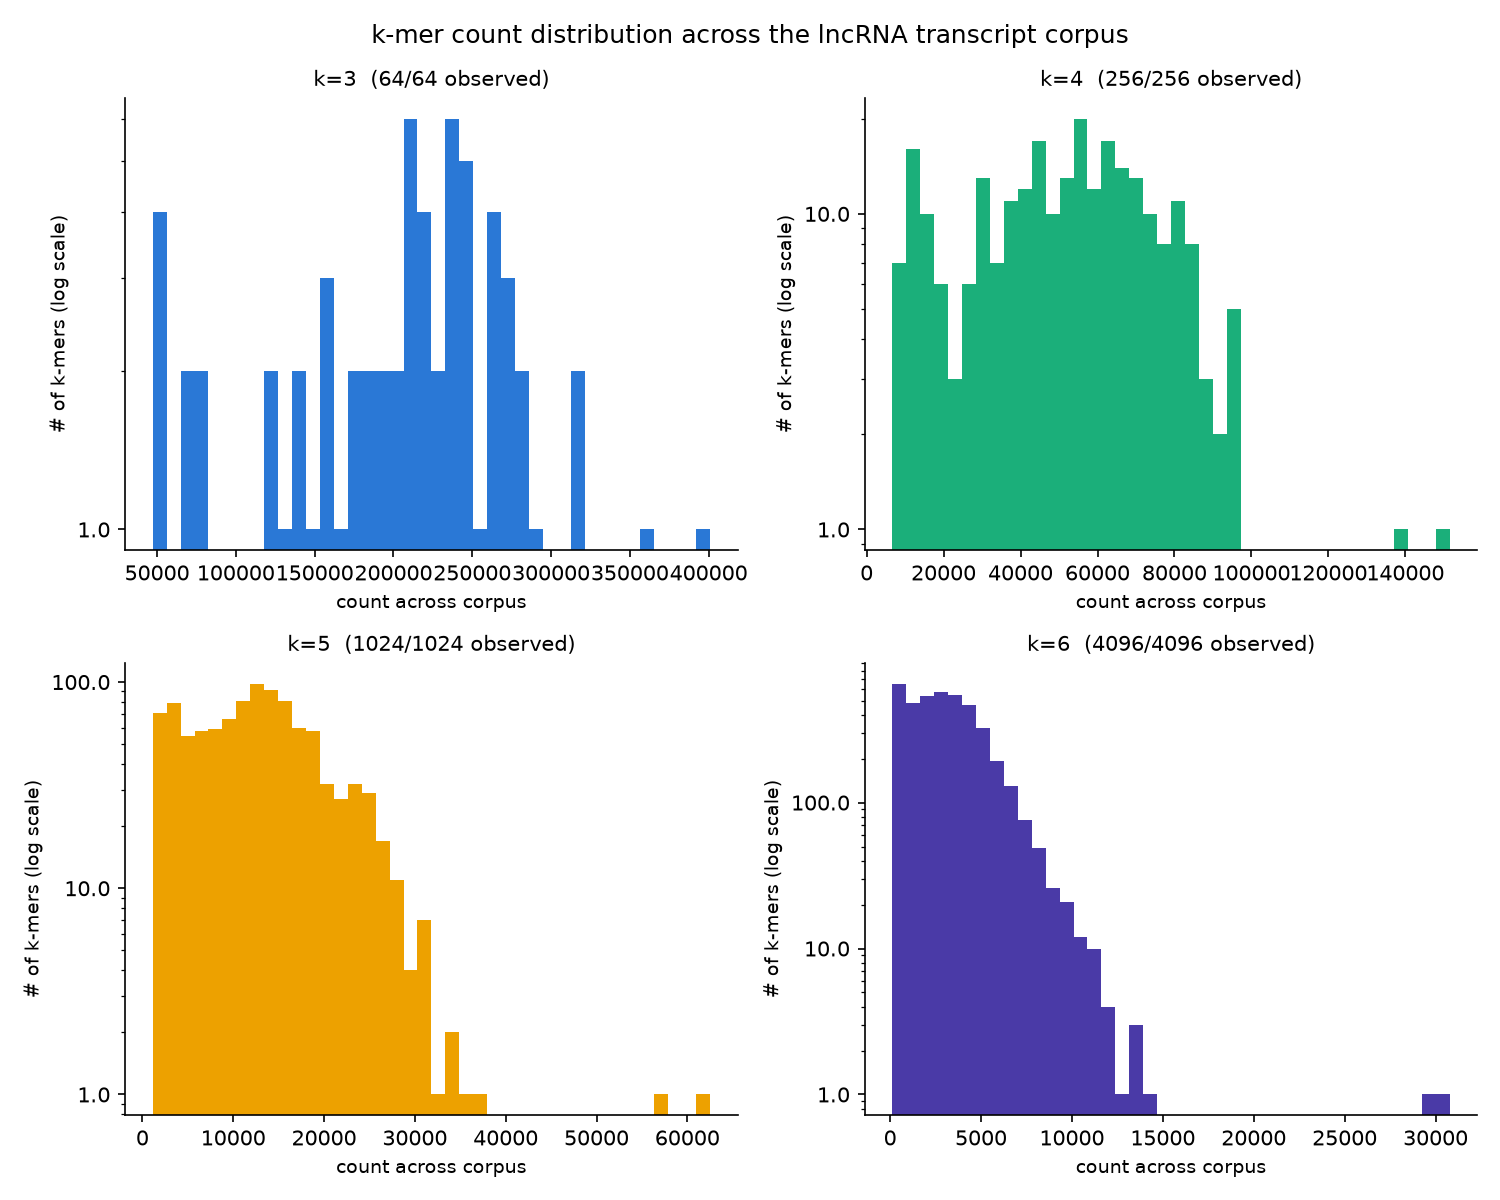
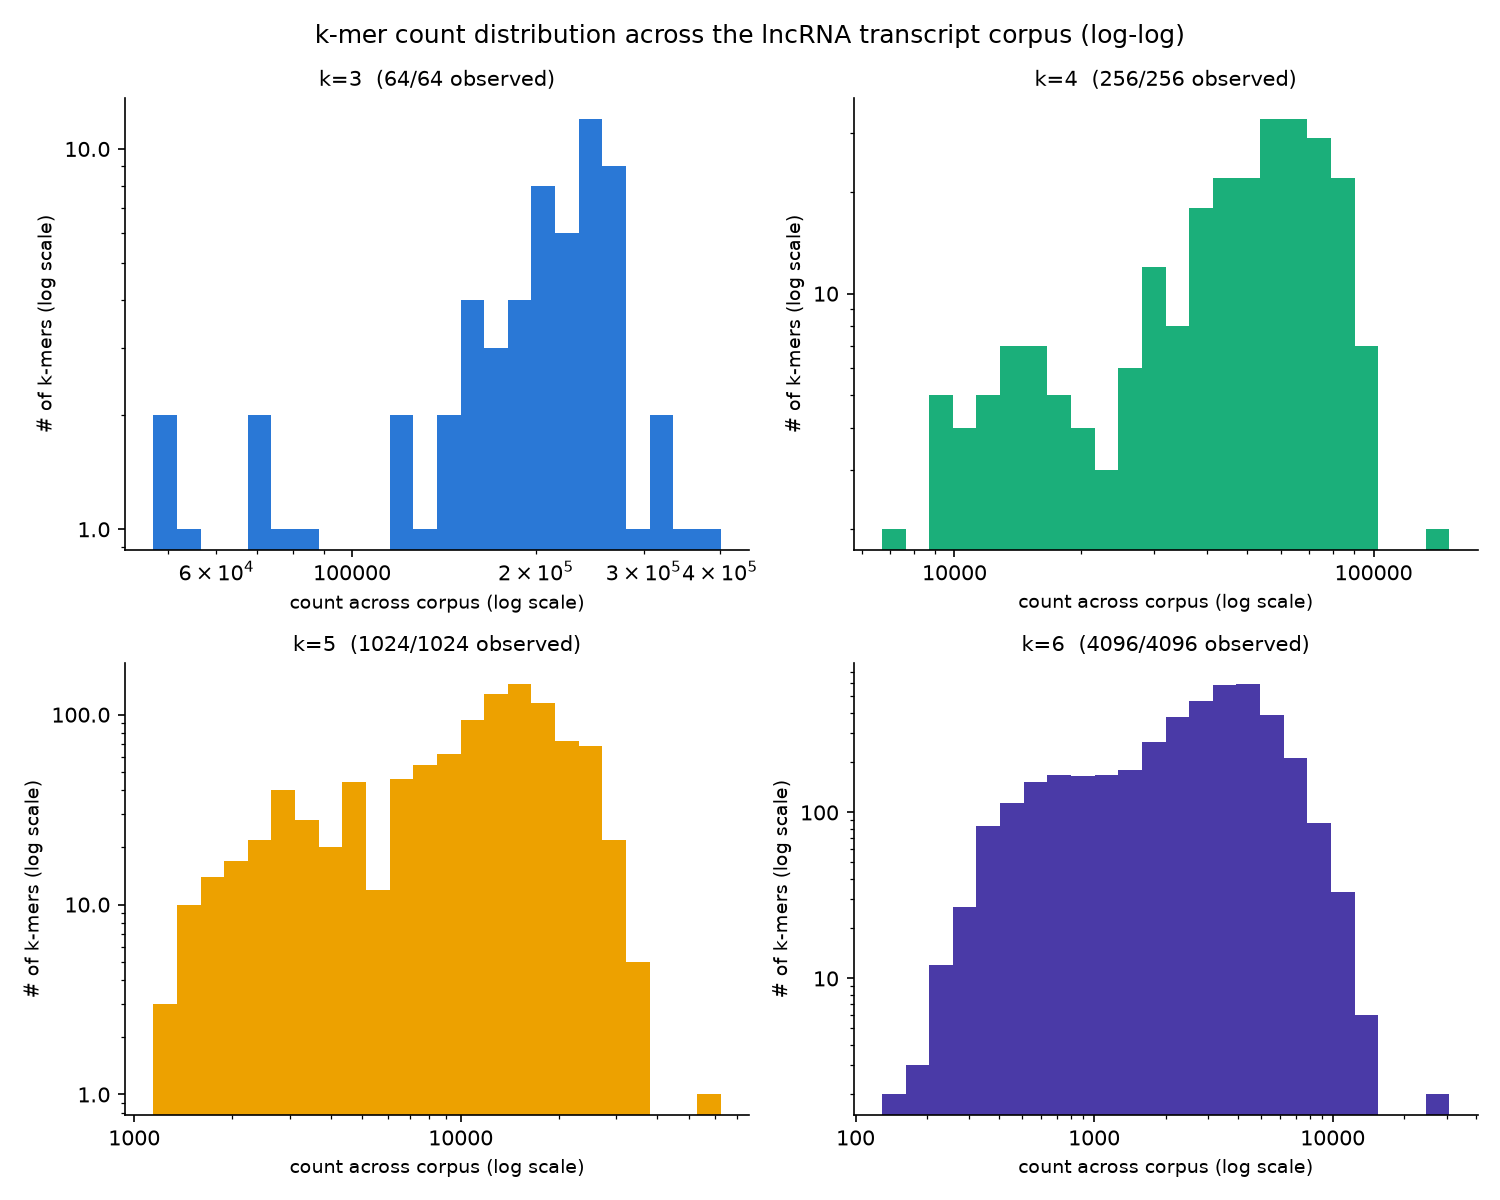
Actually log-scale the x-axis on the k-mer count histograms
The previous commit only cleaned up y-axis tick formatting; the x-axis
(count values) was still linear despite the "log scale" ask. Now uses
log-spaced bins and a log x-axis (plus the existing log y-axis), which is
what actually reveals the right-skew/power-law-like shape of the k=5/k=6
distributions instead of compressing it into the first few bins.

diff --git a/eda/kmer_distributions.py b/eda/kmer_distributions.py
@@ -128,26 +128,29 @@ def _(BASES, Counter, KS, itertools, sequences):
 
 
 @app.cell
-def _(KS, kmer_counts_by_k, mticker, plt):
+def _(KS, kmer_counts_by_k, mticker, np, plt):
     # Categorical palette, fixed order (blue/aqua/yellow/violet) — one hue per k.
     _colors = {3: "#2a78d6", 4: "#1baf7a", 5: "#eda100", 6: "#4a3aa7"}
 
     fig, axes = plt.subplots(2, 2, figsize=(10, 8))
     for _ax, _k in zip(axes.flat, KS):
-        _counts = list(kmer_counts_by_k[_k].values())
+        _vals = np.array(list(kmer_counts_by_k[_k].values()))
         _n_possible = 4**_k
-        _n_observed = sum(1 for c in _counts if c > 0)
-        _ax.hist(_counts, bins=40, color=_colors[_k])
+        _n_observed = int((_vals > 0).sum())
+        _bins = np.logspace(np.log10(_vals[_vals > 0].min()), np.log10(_vals.max()), 25)
+        _ax.hist(_vals, bins=_bins, color=_colors[_k])
+        _ax.set_xscale("log")
         _ax.set_yscale("log")
+        _ax.xaxis.set_major_formatter(mticker.ScalarFormatter())
         _ax.yaxis.set_major_formatter(mticker.ScalarFormatter())
         _ax.yaxis.set_minor_formatter(mticker.NullFormatter())
         _ax.set_title(f"k={_k}  ({_n_observed:,}/{_n_possible:,} k-mers observed)", fontsize=10)
-        _ax.set_xlabel("count across corpus", fontsize=9)
+        _ax.set_xlabel("count across corpus (log scale)", fontsize=9)
         _ax.set_ylabel("# of k-mers (log scale)", fontsize=9)
         for _spine in ("top", "right"):
             _ax.spines[_spine].set_visible(False)
 
-    fig.suptitle("k-mer count distribution across the lncRNA transcript corpus", fontsize=12)
+    fig.suptitle("k-mer count distribution across the lncRNA transcript corpus (log-log)", fontsize=12)
     plt.tight_layout()
     fig
     return (fig,)
